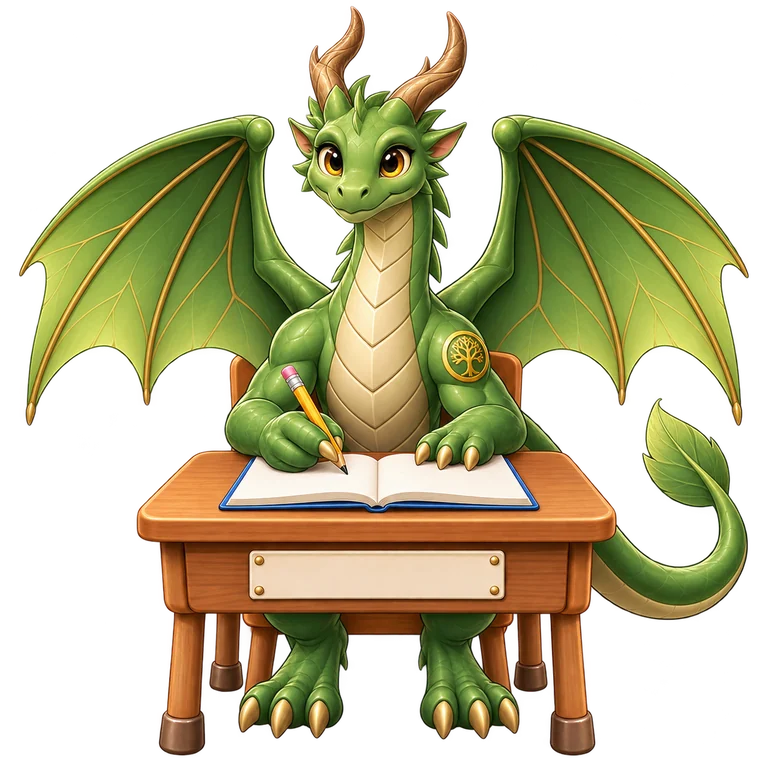
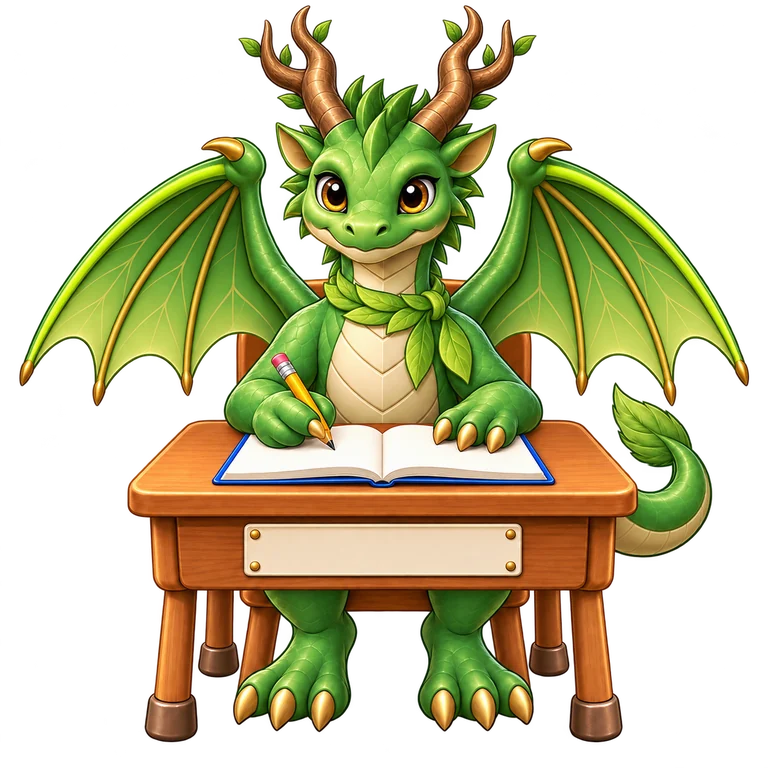
feat(plaza): 6~9단계 책상 수호룡 그림 16장 다시(단계별 장식), 새 글 오류 이유 표시 [skip ci]

diff --git a/src/modules/game/dragon-plaza/PlazaPostModal.jsx b/src/modules/game/dragon-plaza/PlazaPostModal.jsx
@@ -1,4 +1,4 @@
-import { useEffect, useState } from 'react';
+import { Component, useEffect, useState } from 'react';
 import { supabase } from '../../../lib/supabaseClient';
 import PostDetailModal from '../../../components/student/PostDetailModal';
 import { getMissionReactionOptions } from '../../writing/mission-types/registry';
@@ -7,10 +7,12 @@ const POST_COLUMNS = 'id, title, content, student_id, mission_id, created_at, up
 
 /** 친구의 공개 글 한 편을 불러온다(글쓴이 학생·학급이 맞고 공개일 때만). 책장의 글 열기와 같은 조건이다. */
 export const loadPlazaPost = async ({ postId, friend, classId }) => {
+    if (!classId) throw new Error('학급 번호를 찾지 못했어요(no-class)');
     const { data, error } = await supabase.from('student_posts').select(POST_COLUMNS)
         .eq('class_id', classId).eq('id', postId).eq('student_id', friend.id)
         .eq('is_submitted', true).eq('visibility', 'class').maybeSingle();
-    if (error || !data) return null;
+    if (error) throw new Error(`글을 읽지 못했어요(${error.code || 'query'}: ${error.message || ''})`);
+    if (!data) return null;
     const [mission, reactions] = await Promise.all([
         data.mission_id
             ? supabase.from('writing_missions').select('id, title, allow_comments, mission_type, input_template').eq('class_id', classId).eq('id', data.mission_id).maybeSingle()
@@ -34,7 +36,7 @@ export const loadPlazaPost = async ({ postId, friend, classId }) => {
  */
 export default function PlazaPostModal({ post: givenPost, postId, friend, studentSession, classId: givenClassId, classmates, isMobile, onClose }) {
     const [post, setPost] = useState(givenPost || null);
-    const [failed, setFailed] = useState(false);
+    const [failed, setFailed] = useState(null); // 실패 이유(null 이면 정상)
     const classId = givenClassId || studentSession?.classId || studentSession?.class_id;
 
     useEffect(() => {
@@ -42,8 +44,11 @@ export default function PlazaPostModal({ post: givenPost, postId, friend, studen
         let alive = true;
         void loadPlazaPost({ postId, friend, classId }).then((loaded) => {
             if (!alive) return;
-            if (loaded) setPost(loaded); else setFailed(true);
-        }, () => { if (alive) setFailed(true); });
+            if (loaded) setPost(loaded); else setFailed('이 글은 비공개로 바뀌었거나 더 이상 볼 수 없어요. 🔒');
+        }, (error) => {
+            console.warn('[dragon-plaza] 새 글 열기 실패', error);
+            if (alive) setFailed(error?.message || '알 수 없는 이유로 글을 열지 못했어요.');
+        });
         return () => { alive = false; };
     }, [givenPost, postId, friend, classId]);
 
@@ -51,7 +56,7 @@ export default function PlazaPostModal({ post: givenPost, postId, friend, studen
         return (
             <div role="alertdialog" aria-label="글을 열 수 없어요" className="plaza-postfail" onMouseDown={onClose}>
                 <div onMouseDown={(event) => event.stopPropagation()}>
-                    <p>이 글은 비공개로 바뀌었거나 더 이상 볼 수 없어요. 🔒</p>
+                    <p>{failed}</p>
                     <button type="button" onClick={onClose}>닫기</button>
                 </div>
             </div>
@@ -63,6 +68,7 @@ export default function PlazaPostModal({ post: givenPost, postId, friend, studen
     }
     const mission = post.mission_id ? post.writing_missions : null;
     return (
+        <PostBoundary onClose={onClose}>
         <PostDetailModal
             key={post.id}
             post={post}
@@ -75,5 +81,23 @@ export default function PlazaPostModal({ post: givenPost, postId, friend, studen
             classmates={classmates}
             enforcePublicAccess
         />
+        </PostBoundary>
     );
+}
+
+class PostBoundary extends Component {
+    state = { message: '' };
+    static getDerivedStateFromError(error) { return { message: error?.message || '글 화면에서 오류가 났어요.' }; }
+    componentDidCatch(error) { console.warn('[dragon-plaza] 글 화면 오류', error); }
+    render() {
+        if (!this.state.message) return this.props.children;
+        return (
+            <div role="alertdialog" aria-label="글 화면 오류" className="plaza-postfail" onMouseDown={this.props.onClose}>
+                <div onMouseDown={(event) => event.stopPropagation()}>
+                    <p>글 화면을 여는 중 오류가 났어요. ({this.state.message})</p>
+                    <button type="button" onClick={this.props.onClose}>닫기</button>
+                </div>
+            </div>
+        );
+    }
 }

diff --git a/WORKLOG.md b/WORKLOG.md
@@ -22,6 +22,12 @@
 > - **결과/검증**: …
 > - **남은 것 / 다음**: …
 > ```
+## 2026-10-25 — 책상 수호룡 6~9단계 그림 다시 만들기, 새 글 오류 이유 표시, 정복 덱 DB 적용 (Claude)
+- **한 일**: 인접 단계가 비슷하던 6~9단계 책상 그림 16장(4종류)을 GPT(Codex)로 단계마다 장식이 쌓이게 다시 만들어 설치(7 스카프·긴 뿔, 8 보석·가슴 보호구·큰 날개, 9 갑옷·무늬 날개·후광). 새 글이 안 열릴 때 화면에 이유를 보이고 글 화면 오류는 교실이 사라지지 않게 막음. `20261414` 운영 DB 적용.
+- **변경**: public/assets/dragons/desk/{star,forest,ember,moon}/level-6~9.webp, PlazaPostModal.jsx. 옛 그림은 작업 폴더에 보관.
+- **결과/검증**: 규격 검사(알파·정사각형·책상 위치) 통과, eslint 0, test:all 1718, migrate:status 남은 0. GPT 사용량 약 20%(5시간 창).
+- **남은 것**: OI-045(선택 개선), OI-046(적용 끝: 배포 후 정복 배지 확인).
+
 ## 2026-10-25 — 우리반 수호룡 아지트: 친구의 어휘의 탑 정복 덱 보기 (Claude)
 - **한 일**: 같은 반 친구가 정복한 어휘의 탑 덱 수를 책상 모서리 배지(🏰 N)로, 덱 번호는 친구 아지트 창의 새 카드로 보여 줌. 정답률·점수·틀린 낱말은 서버가 주지 않음(순위·비교용 아님). 정복 = 앱의 `정복 완료`와 같은 뜻(도전 자격 또는 합격).
 - **변경**: `20261414_class_vocab_conquests.sql`(읽기 전용 함수 1개, 새 표 없음)+스모크, plazaApi·useDragonPlaza·PlazaDesk·FriendTowerConquestCard·카드 목록.

diff --git a/SESSION_CONTEXT.md b/SESSION_CONTEXT.md
@@ -80,6 +80,8 @@
 
 ## 최근 작업 5건 — 제목과 남은 것 (자세한 것은 [WORKLOG.md](WORKLOG.md) 에서 골라 읽는다)
 
+- 2026-10-25 — 책상 수호룡 6~9단계 그림 다시 만들기, 새 글 오류 이유 표시, 정복 덱 DB 적용 (Claude)
+  - 남은 것: OI-045(선택 개선), OI-046(적용 끝: 배포 후 정복 배지 확인).
 - 2026-10-25 — 우리반 수호룡 아지트: 친구의 어휘의 탑 정복 덱 보기 (Claude)
   - 남은 것: OI-046(`적용해` → 배포).
 - 2026-10-24 — 수호룡 아지트: 7·8·9·10단계 효과를 서로 다르게 (Claude)
@@ -87,6 +89,4 @@
 - 2026-10-24 — 수호룡 아지트: 단계별 빛을 눈에 띄게·가볍게, 새 글 눌림 보강 (Claude)
   - 남은 것: OI-045(선택 개선).
 - 2026-10-24 — 우리반 수호룡 아지트: 친구 아지트·새 글을 창으로, 단계별 빛 (Claude)
-  - 남은 것: OI-045(선택 개선).
-- 2026-10-24 — 수호룡 광장 → 우리반 수호룡 아지트 이름 통일, 앉은 그림 바로 표시 (Claude)
   - 남은 것: OI-045(선택 개선).
